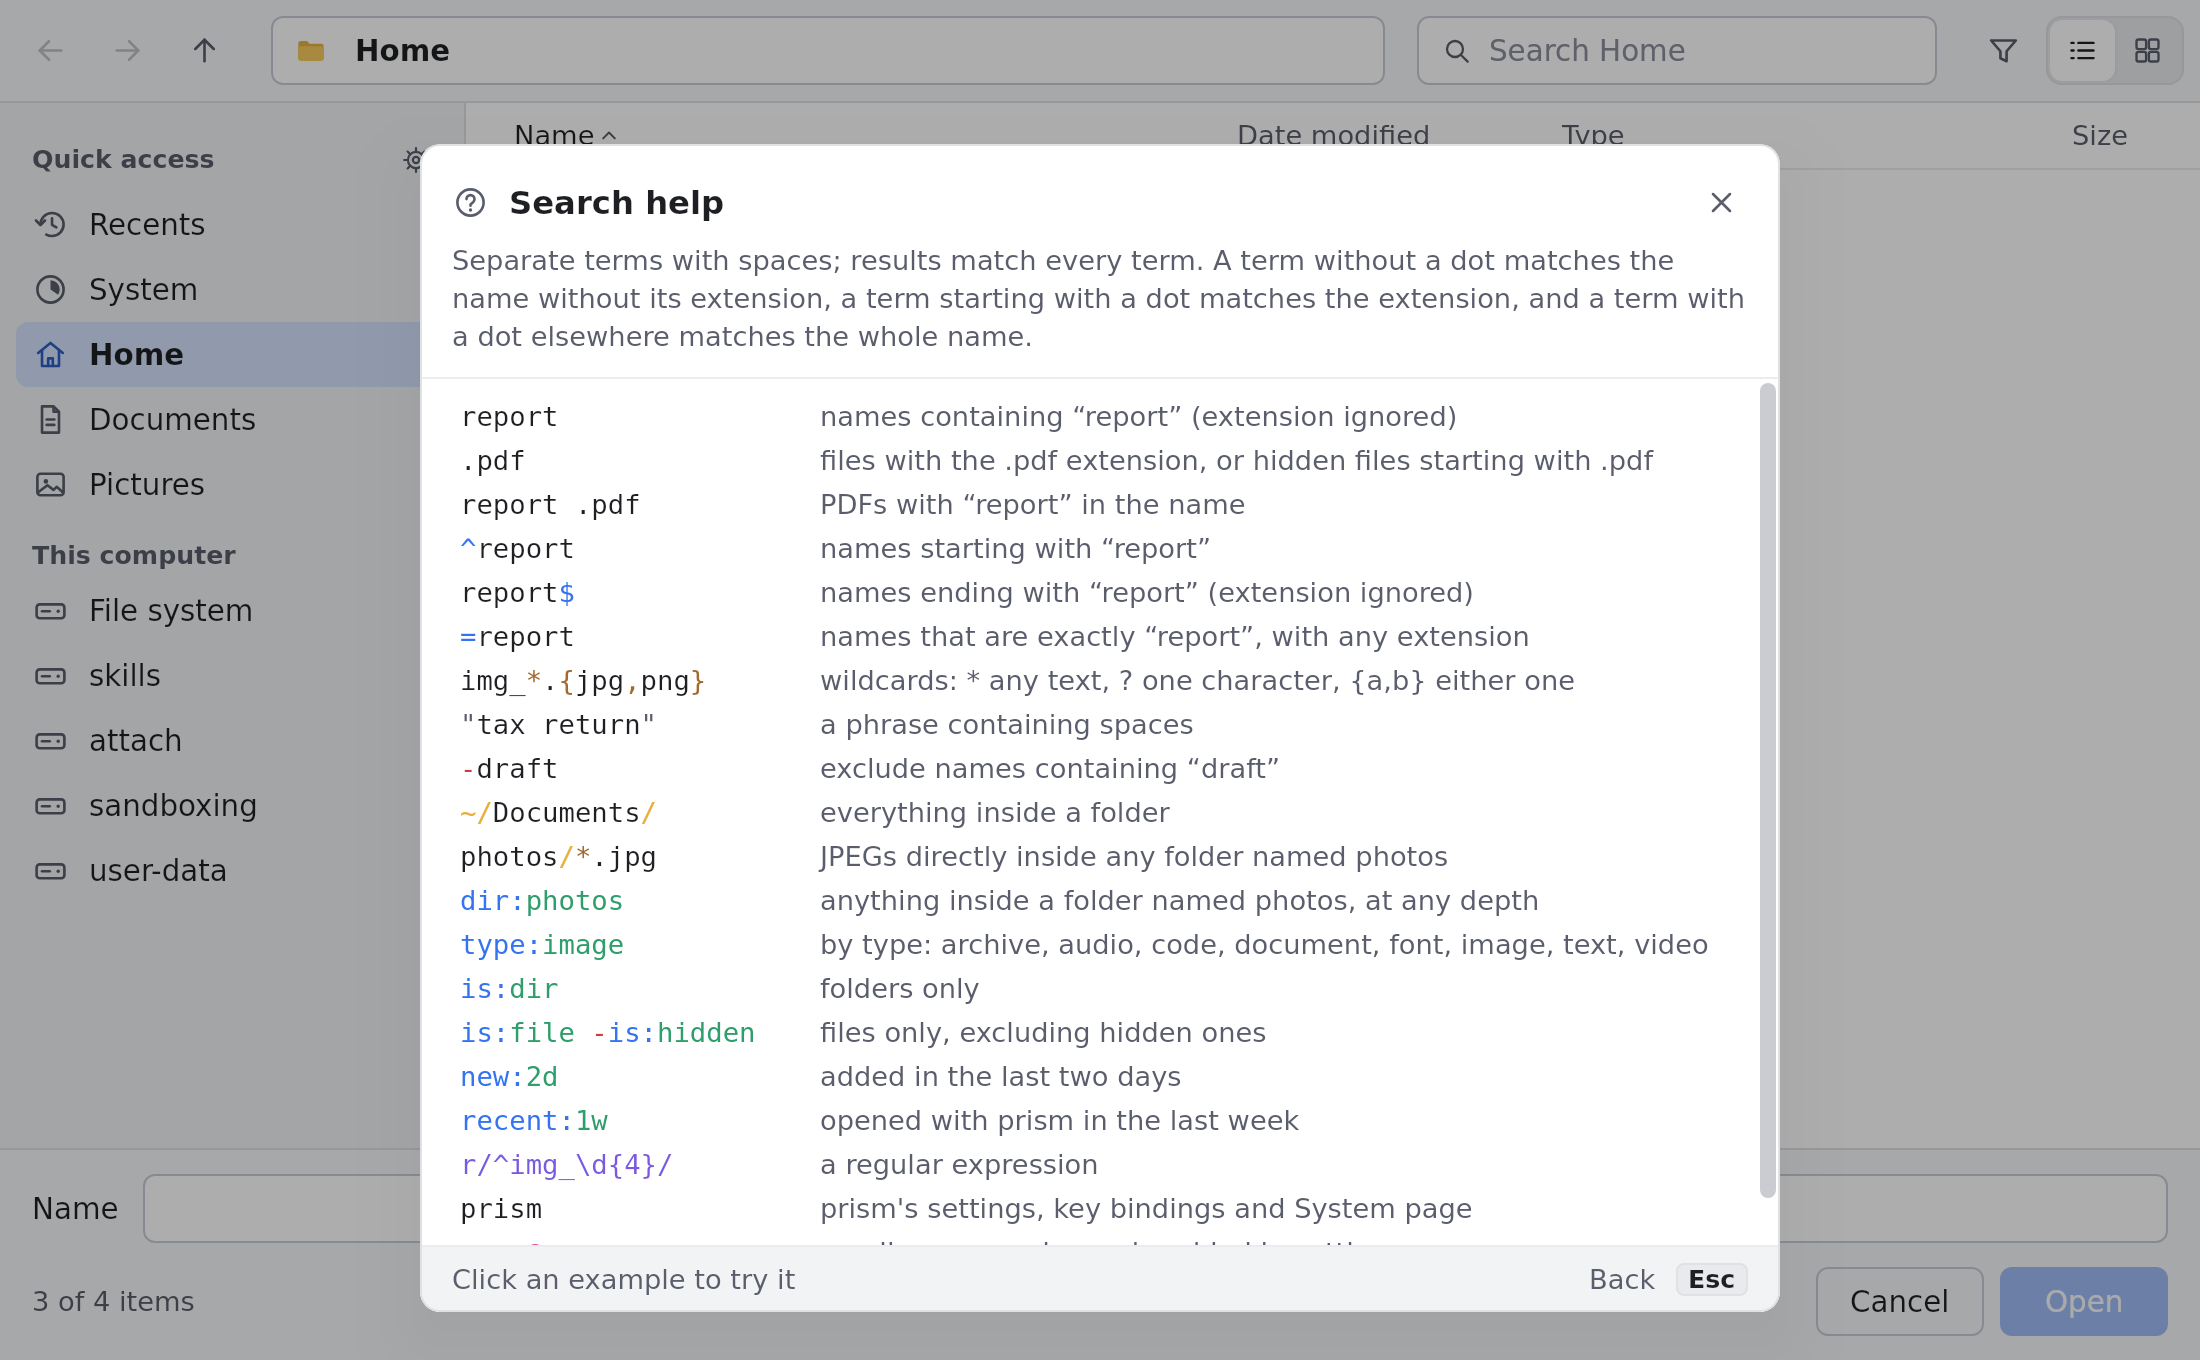
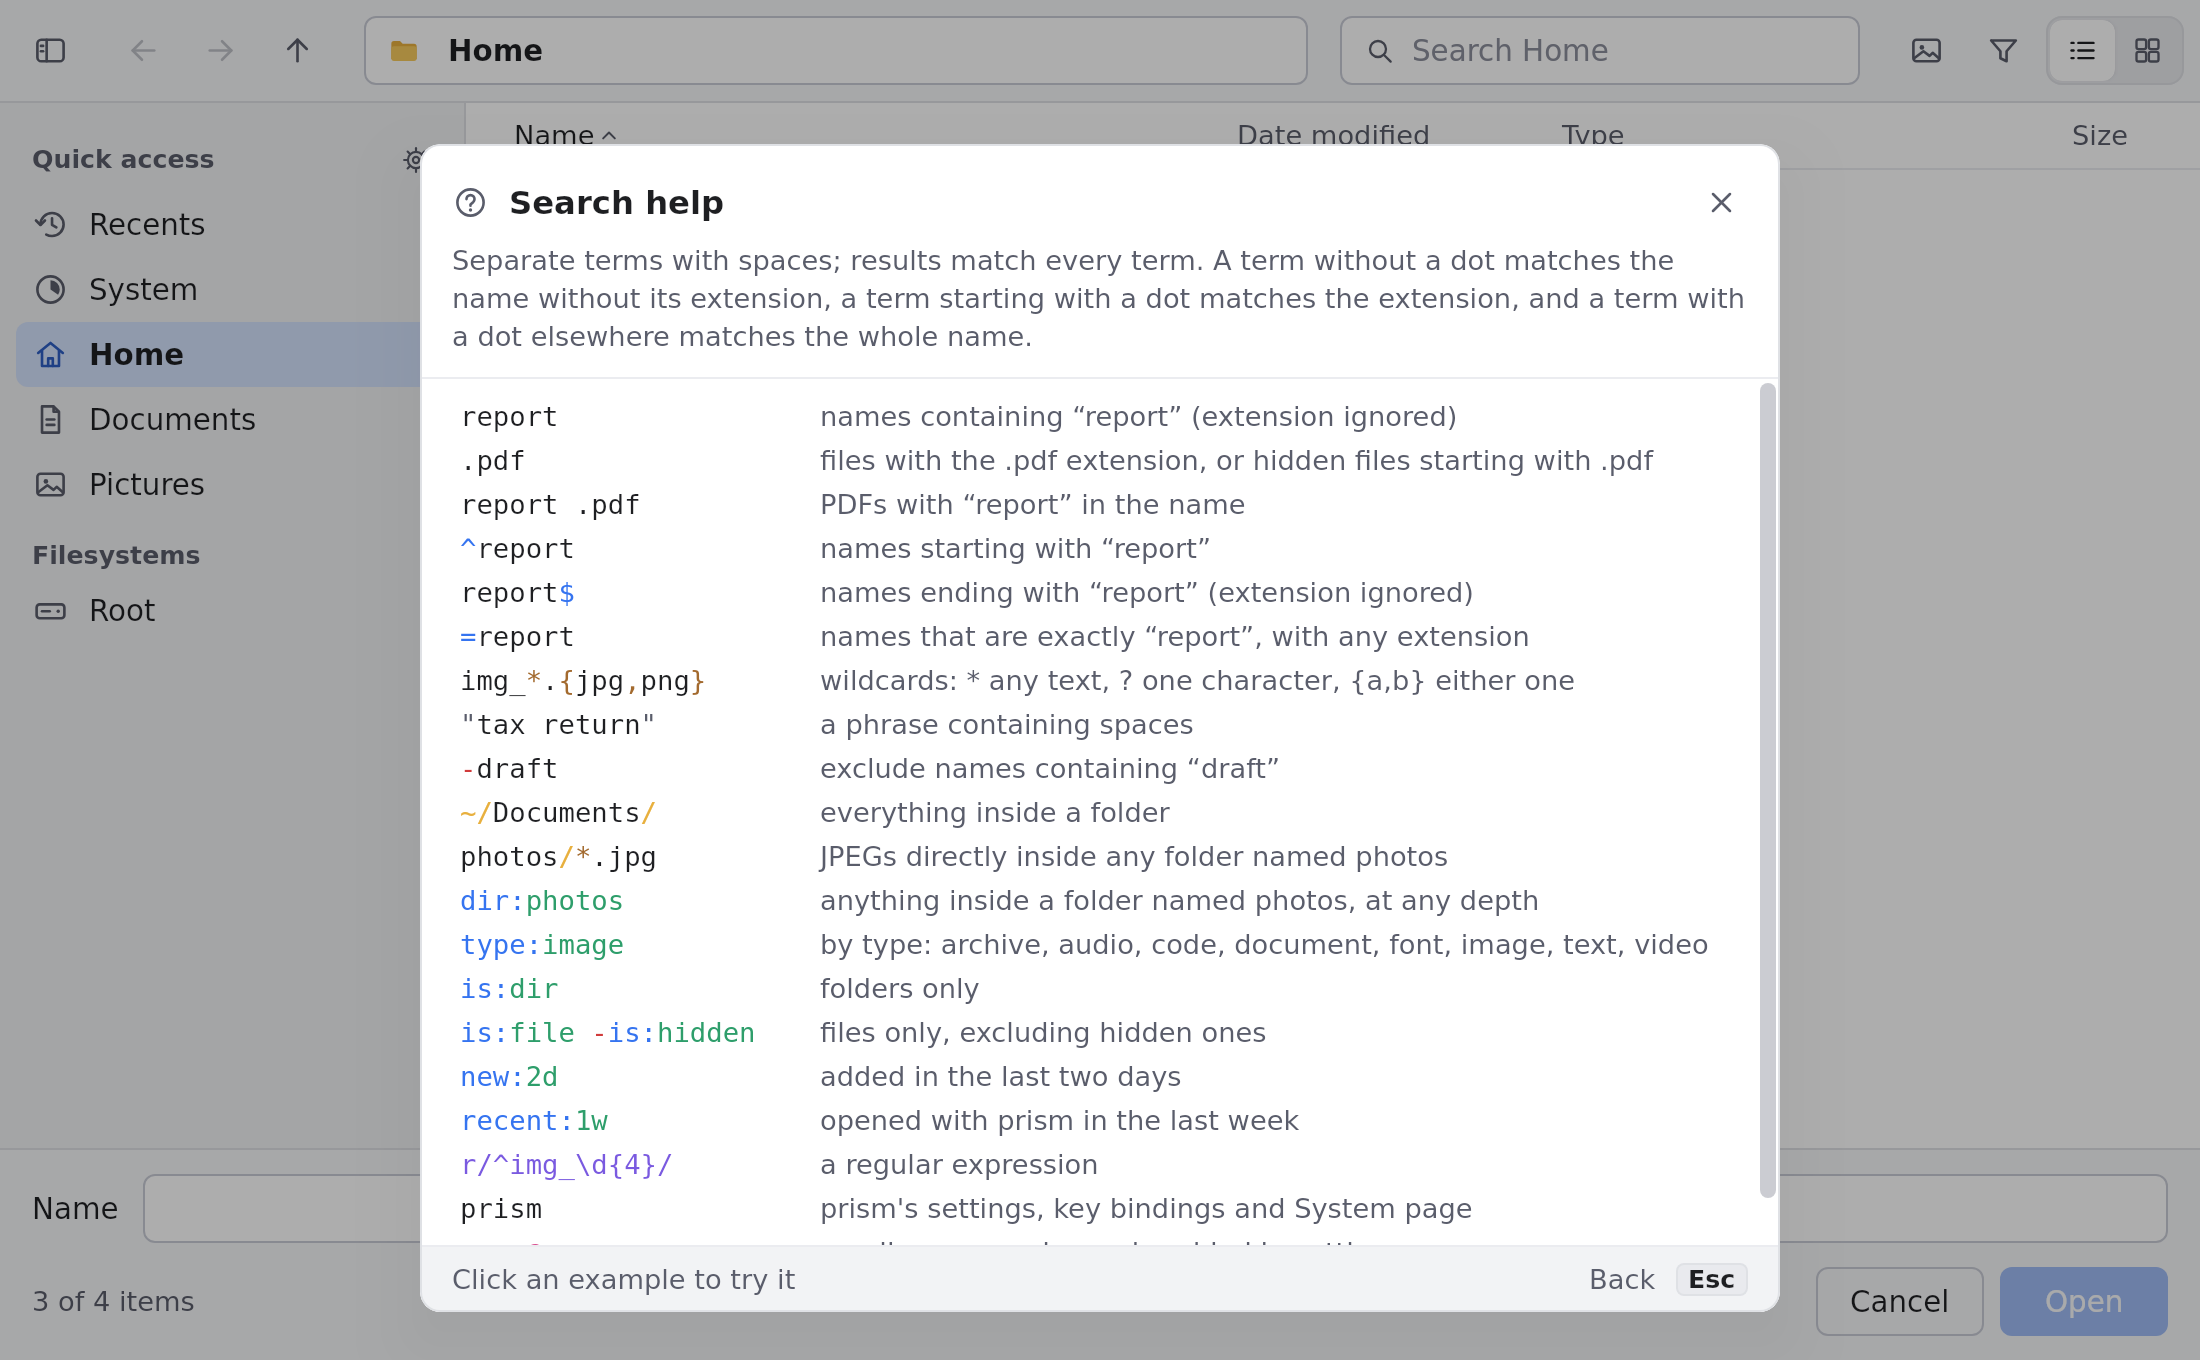
A window told of the aliases it already has searches for nothing again; the docs' pictures as the windows now are
A window is told what the preferences say of aliases once as it opens. Arriving after a search was typed, that
searched for it a second time, and a search that went wrong was reported twice (a test that failed now and then).
Aliases that are what the window already has change nothing now.

The pictures in docs are rendered again: the sidebar says Root and Filesystems and has its button, the toolbar
has the thumbnails button, and the menus draw their boxes and rings.

Claude-Session: https://claude.ai/code/session_01J1r69Jaca9mCPXayHaXTAB

diff --git a/browser/src/main/kotlin/prism/browser/step.kt b/browser/src/main/kotlin/prism/browser/step.kt
@@ -1751,9 +1751,16 @@ private fun BrowserState.aliasing(name: String, query: String): Step =
 
 /**
  * The search aliases as they now are: a search open is read with them, and searched for again where it is open,
- * since what it was typed as may mean something else now.
+ * since what it was typed as may mean something else now. Told of the aliases it already has (as a window is once,
+ * when it opens, of what the preferences say), nothing has changed and nothing is searched for again.
  */
 private fun BrowserState.aliased(aliases: Aliases): Step =
+	if (aliases.written == this.aliases.written)
+		Step(this)
+	else
+		changedAliases(aliases)
+
+private fun BrowserState.changedAliases(aliases: Aliases): Step =
 	copy(
 		aliases = aliases,
 		// A name being asked for is one more of the aliases there now are.
